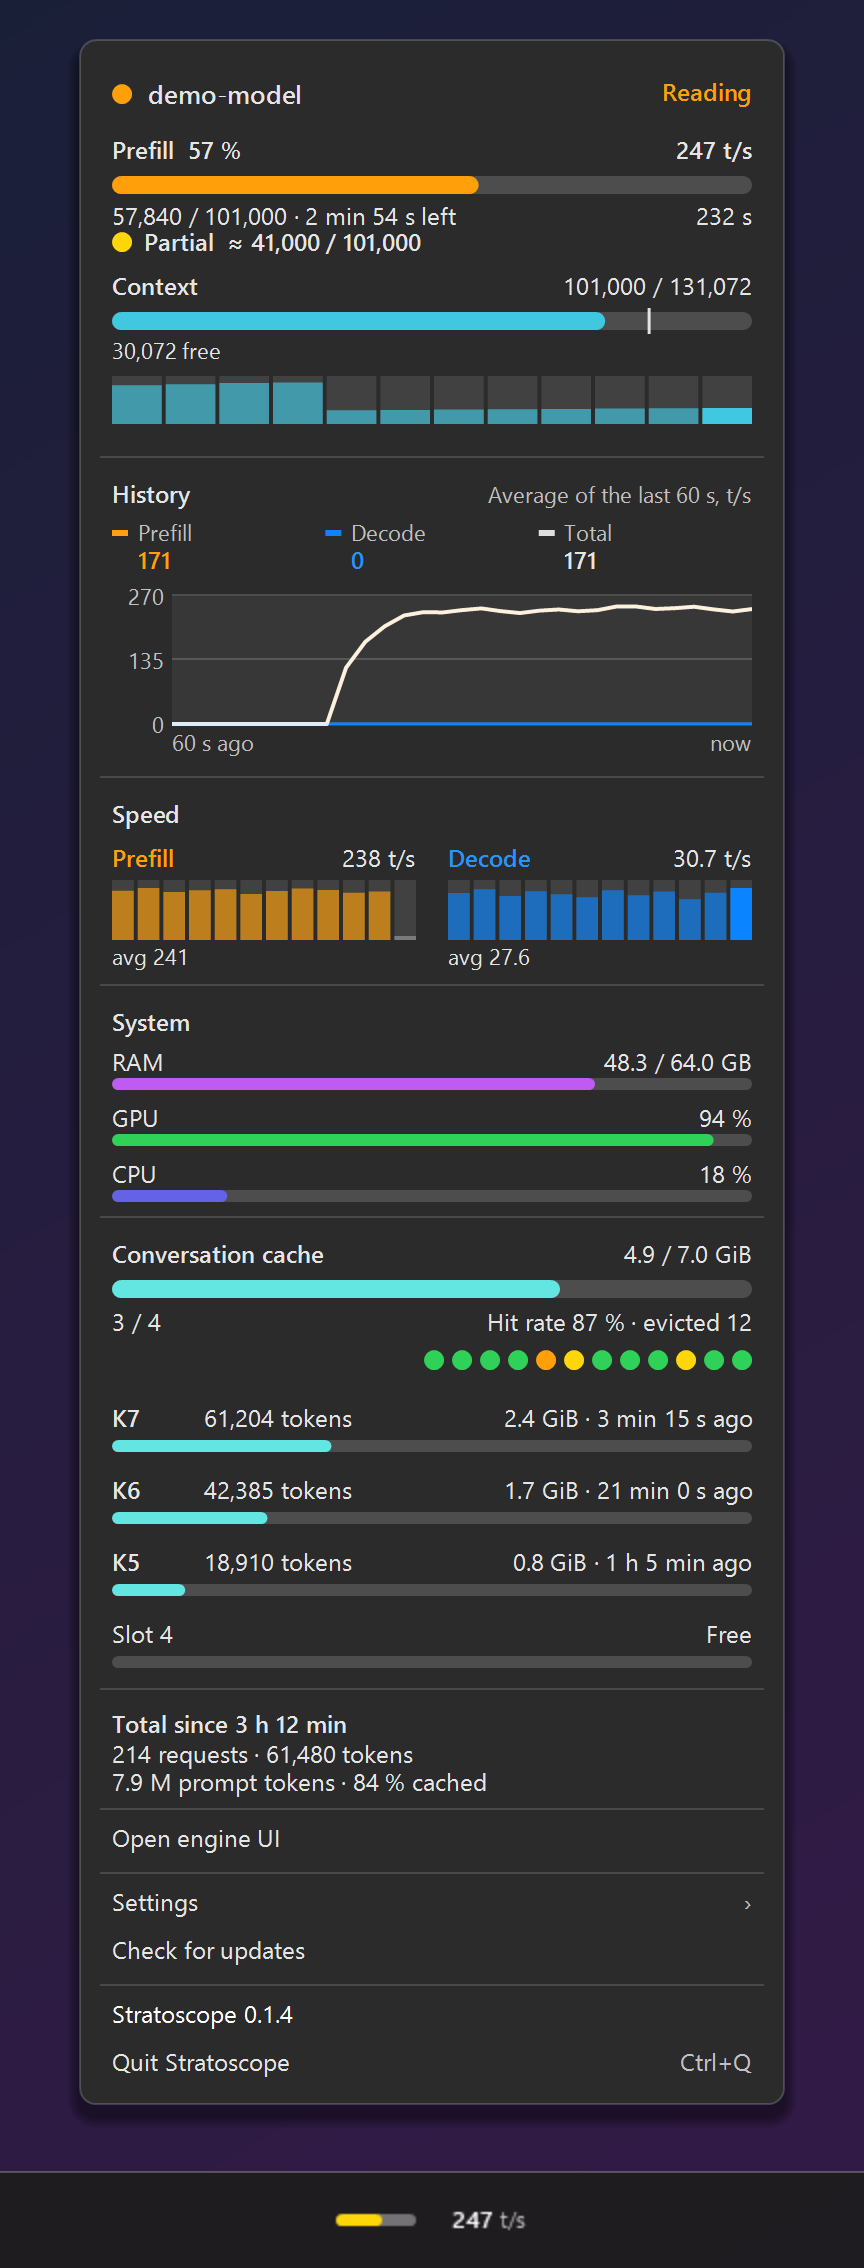
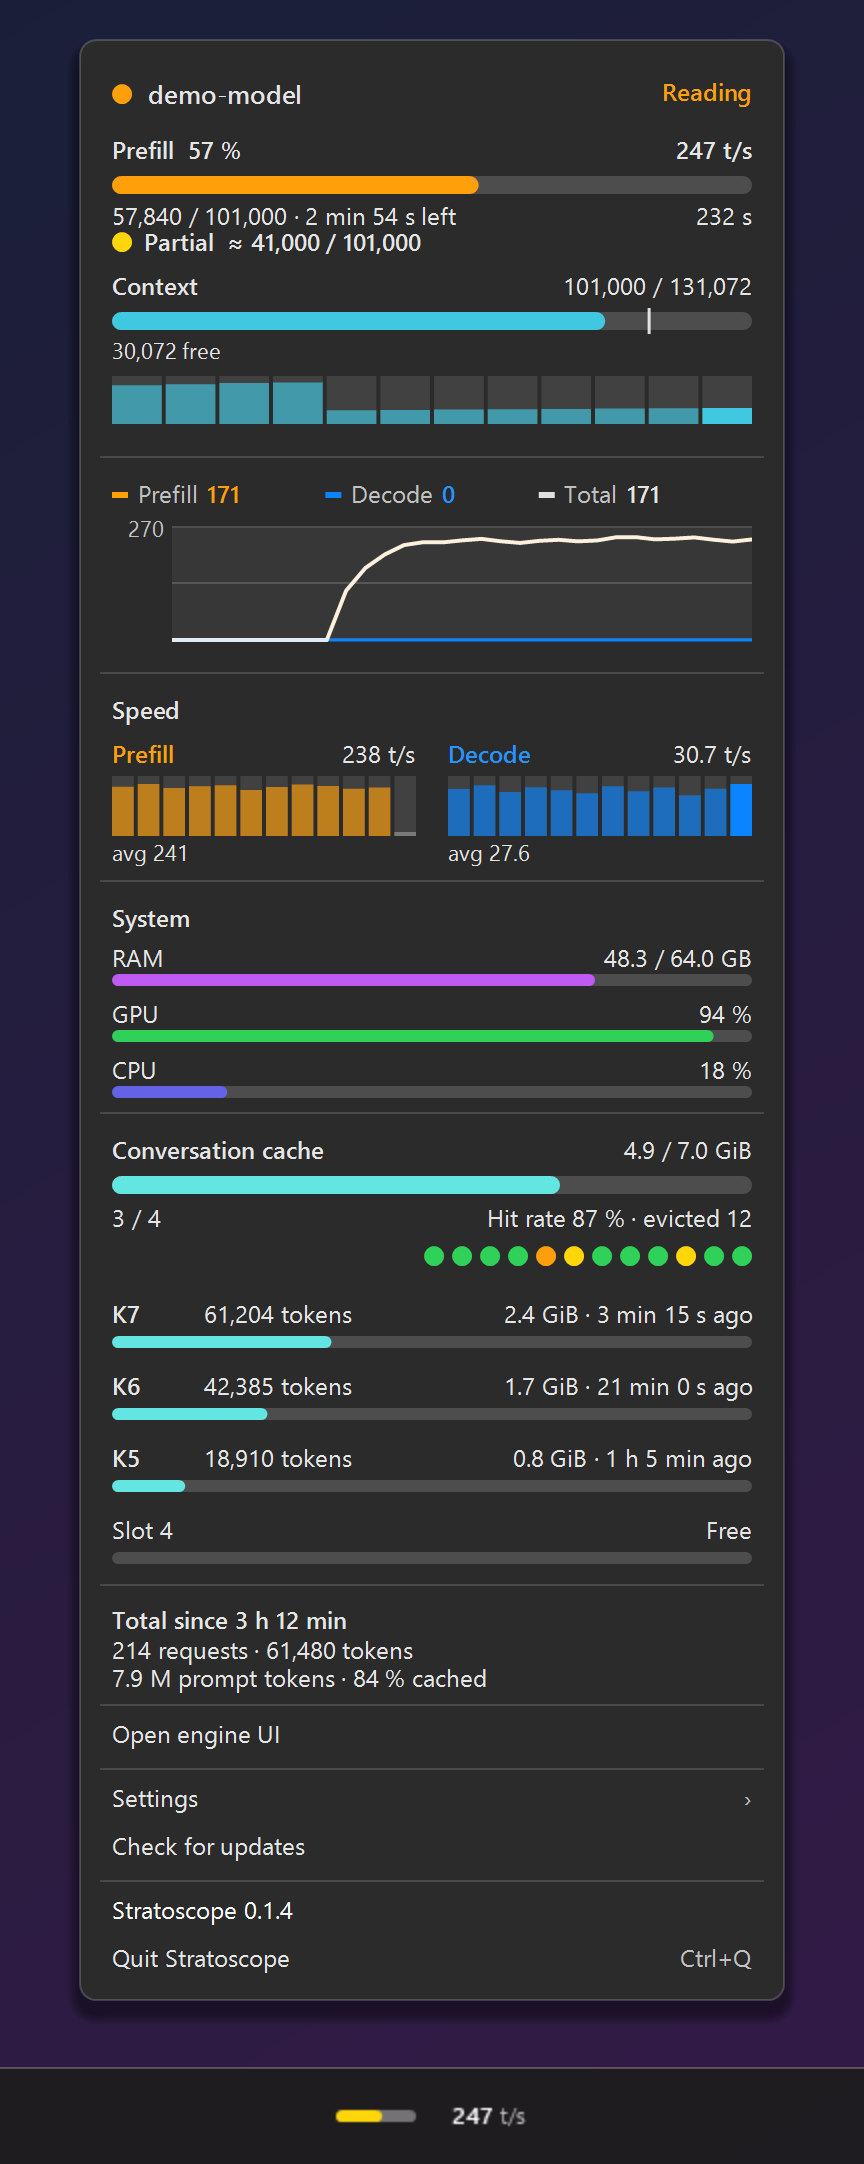
Panel history: one legend row (mark, name, 60 s average), no header or time labels, only the maximum on the axis; Swift mirrored (unbuilt) [skip ci] [skip cd]

Changed region(s): [[0.0938, 0.031, 0.9062, 0.9288], [0.5312, 0.9598, 0.5938, 0.9908], [0.4062, 0.9598, 0.4375, 0.9908]]

diff --git a/Sources/Stratoscope/Panels.swift b/Sources/Stratoscope/Panels.swift
@@ -19,7 +19,7 @@ final class Panels {
         var groups: [[Section]] = []
         groups.append([Section(id: "live", height: 198) { [unowned self] _ in self.paintLive() }])
         if !s.isLoading {
-            if history != nil { groups.append([Section(id: "history", height: 152) { [unowned self] _ in self.paintHistory() }]) }
+            if history != nil { groups.append([Section(id: "history", height: 100) { [unowned self] _ in self.paintHistory() }]) }
             groups.append([Section(id: "speed", height: 96) { [unowned self] _ in self.paintSpeed() }])
             if let sys = s.system {
                 // A fourth row for the video memory when the engine reports it (custom server); the other engines keep three rows.
@@ -126,33 +126,28 @@ final class Panels {
     /// The last 60 seconds in one graph, like a frame-rate graph: orange is the prefill speed (prompt tokens per second), blue the decode speed
     /// (generated tokens per second) and the label colour the total throughput (prompt plus generated tokens per second, the vLLM and
     /// OpenTelemetry GenAI meaning, see `SpeedHistory`). The total is a third curve in the same graph: it shares the axis, so it reads directly
-    /// against its two parts, and it costs no height. The legend gives the current value of each curve. The vertical axis is the adaptive scale
-    /// of the history (0 to its maximum); the horizontal one runs from 60 s ago to now. Not built or run on the Windows PC this was written on.
+    /// against its two parts, and it costs no height. The legend is one row: colour mark, name and the average over the 60 s (of the raw samples). The vertical axis is the adaptive scale
+    /// of the history (0 at the baseline, its maximum labelled at the top); the horizontal one is the last 60 s, unlabelled. Not built or run on the Windows PC this was written on.
     func paintHistory() {
         guard let h = history else { return }
         let inner = menuWidth - 2 * pad
-        text("History", x: pad, y: 8, size: 12, bold: true)
-        text("Average of the last 60 s, t/s", x: 0, y: 9, size: 10, color: .secondaryLabelColor, right: menuWidth - pad)
         let curves: [(HistoryCurve, String, NSColor)] = [(.prefill, "Prefill", .systemOrange), (.decode, "Decode", .systemBlue), (.total, "Total", .labelColor)]
         let column = inner / 3
         for (i, (curve, name, color)) in curves.enumerated() {
             let x = pad + CGFloat(i) * column
-            color.setFill(); NSRect(x: x, y: 33, width: 8, height: 3).fill()
-            text(name, x: x + 13, y: 28, size: 10, color: .secondaryLabelColor)
+            color.setFill(); NSRect(x: x, y: 14, width: 8, height: 3).fill()
+            let nameWidth = NSAttributedString(string: name, attributes: [.font: font(12, bold: false)]).size().width
+            text(name, x: x + 13, y: 8, size: 12, color: .secondaryLabelColor)
             let v = h.average(curve, now: Date().timeIntervalSince1970)     // the average of the raw samples of the window, not of the smoothed curve
-            text(v.isNaN ? "–" : Fmt.number(v), x: x + 13, y: 41, size: 12, bold: true, color: curve == .total ? .labelColor : color)
+            text(v.isNaN ? "–" : Fmt.number(v), x: x + 13 + nameWidth + 5, y: 8, size: 12, bold: true, color: curve == .total ? .labelColor : color)
         }
-        let gutter: CGFloat = 30, left = pad + gutter, right = menuWidth - pad, top: CGFloat = 66, plotH: CGFloat = 64
+        let gutter: CGFloat = 30, left = pad + gutter, right = menuWidth - pad, top: CGFloat = 32, plotH: CGFloat = 56
         let scale = h.graphScale
         NSColor.labelColor.withAlphaComponent(0.06).setFill()
         NSRect(x: left, y: top, width: right - left, height: plotH).fill()
         NSColor.labelColor.withAlphaComponent(0.16).setFill()
         for f in [0.0, 0.5, 1.0] { NSRect(x: left, y: (top + plotH - plotH * CGFloat(f)).rounded() - 1, width: right - left, height: 1).fill() }
-        text(Fmt.number(scale.max), x: 0, y: top - 6, size: 10, color: .secondaryLabelColor, right: left - 4)
-        text(Fmt.number(scale.max / 2), x: 0, y: top + plotH / 2 - 6, size: 10, color: .secondaryLabelColor, right: left - 4)
-        text(Fmt.number(scale.min), x: 0, y: top + plotH - 6, size: 10, color: .secondaryLabelColor, right: left - 4)
-        text("60 s ago", x: left, y: top + plotH + 3, size: 10, color: .secondaryLabelColor)
-        text("now", x: 0, y: top + plotH + 3, size: 10, color: .secondaryLabelColor, right: right)
+        text(Fmt.number(scale.max), x: 0, y: top - 6, size: 10, color: .secondaryLabelColor, right: left - 4)     // the top of the scale; 0 is the baseline
 
         NSGraphicsContext.saveGraphicsState()
         NSRect(x: left, y: top - 1, width: right - left, height: plotH + 2).clip()

diff --git a/Sources/Windows/App/PanelPainter.cs b/Sources/Windows/App/PanelPainter.cs
@@ -586,8 +586,8 @@ internal sealed class PanelPainter
     // MARK: History
 
     /// <summary>The height of the history block (a multiple of 4).</summary>
-    internal const float HistoryHeight = 152f;
-    private const float HistoryPlotHeight = 64f;
+    internal const float HistoryHeight = 100f;
+    private const float HistoryPlotHeight = 56f;
     private const float HistoryGutter = 30f;
     [ThreadStatic] private static double[]? historyAges, historyValues;
 
@@ -595,29 +595,27 @@ internal sealed class PanelPainter
     /// The last 60 seconds in one graph, like a frame-rate graph: orange is the prefill speed (prompt tokens per second), blue the decode speed
     /// (generated tokens per second) and the ink colour the total throughput (prompt plus generated tokens per second, the vLLM and
     /// OpenTelemetry GenAI meaning, see <see cref="SpeedHistory"/>). The total is a third curve in the same graph, not a separate sparkline: it shares the axis,
-    /// so it reads directly against its two parts, and it costs no height. The legend above the graph gives the current value of each curve.
-    /// The vertical axis is the adaptive scale of the history (0 to its maximum); the horizontal one runs from 60 s ago to now.
+    /// so it reads directly against its two parts, and it costs no height. The legend row above the graph gives, for each curve, the colour mark, the name and its average over the 60 s (of the raw samples).
+    /// The vertical axis is the adaptive scale of the history (0 to its maximum); the horizontal one is the last 60 s, newest on the right, and has no labels.
     /// </summary>
     private float HistoryBlock(SpeedHistory history, float y)
     {
         var inner = Width - 2 * Pad;
-        T("History", Pad, y + 8, Body, true);
-        T("Average of the last 60 s, t/s", 0, y + 9, Caption, false, pal.Dim, Width - Pad);
         var column = inner / 3;
         var curves = new[] { (HistoryCurve.Prefill, "Prefill", pal.Orange), (HistoryCurve.Decode, "Decode", pal.Blue), (HistoryCurve.Total, "Total", pal.Label) };
         for (int i = 0; i < curves.Length; i++)
         {
             var (curve, name, color) = curves[i];
             var x = Pad + i * column;
-            using (var brush = new SolidBrush(color)) g.FillRectangle(brush, x, y + 33, 8, 3);
-            T(name, x + 13, y + 28, Caption, false, pal.Dim);
-            // The average of the raw samples of the window, not of the smoothed curve. Only the average fits the column without more height.
+            // One row: the colour mark, the name, the number. The number is the average of the raw samples of the 60 s window (not of the smoothed curve).
+            using (var brush = new SolidBrush(color)) g.FillRectangle(brush, x, y + 14, 8, 3);
+            T(name, x + 13, y + 8, Body, false, pal.Dim);
             var average = history.Average(curve, SpeedHistory.Seconds(model.Now));
-            T(double.IsNaN(average) ? Fmt.Missing : Fmt.Number(average), x + 13, y + 41, Body, true, curve == HistoryCurve.Total ? null : color);
+            T(double.IsNaN(average) ? Fmt.Missing : Fmt.Number(average), x + 13 + TextWidth(name, F(Body, false)) + 5, y + 8, Body, true, curve == HistoryCurve.Total ? null : color);
         }
 
         var left = Pad + HistoryGutter; var right = Width - Pad;
-        var top = y + 66; var plotH = HistoryPlotHeight;
+        var top = y + 32; var plotH = HistoryPlotHeight;
         var scale = history.GraphScale;
         using (var brush = new SolidBrush(pal.Faint(0.06)))
             g.FillRectangle(brush, left, top, right - left, plotH);
@@ -627,12 +625,7 @@ internal sealed class PanelPainter
                 var gy = (float)Math.Round(top + plotH - plotH * f) - 0.5f;
                 g.DrawLine(pen, left, gy, right, gy);
             }
-        T(Fmt.Number(scale.Max), 0, top - 6, Caption, false, pal.Dim, left - 4);
-        T(Fmt.Number(scale.Max / 2), 0, top + plotH / 2 - 6, Caption, false, pal.Dim, left - 4);
-        T(Fmt.Number(scale.Min), 0, top + plotH - 6, Caption, false, pal.Dim, left - 4);
-        T("60 s ago", left, top + plotH + 3, Caption, false, pal.Dim);
-        T("now", 0, top + plotH + 3, Caption, false, pal.Dim, right);
-
+        T(Fmt.Number(scale.Max), 0, top - 6, Caption, false, pal.Dim, left - 4);     // the top of the scale; 0 is the baseline
         historyAges ??= new double[SpeedHistory.Capacity]; historyValues ??= new double[SpeedHistory.Capacity];
         var now = SpeedHistory.Seconds(model.Now);
         var saved = g.SmoothingMode;

diff --git a/docs/ARCHITECTURE.md b/docs/ARCHITECTURE.md
@@ -96,7 +96,7 @@ What every front end does the same way. The payloads in `Tests/Fixtures` with th
 - **Settings:** environment variable, then the settings file, then the default. A router without `url` is asked alone, never `127.0.0.1:8095`.
 - **Speed when several requests run together:** the headline decode speed (and the headline prefill speed while reading) is the engine's own total over all requests, for every engine. Strata: `live.tok_s` (the engine's total of the generating requests); when the engine has no total yet, the sum of the derived per-slot speeds (Windows only). Basalt: `live.tok_s`, which the engine sums over its slots. llama.cpp: `/metrics` `llamacpp:predicted_tokens_seconds` (prefill: `prompt_tokens_seconds`), the server-wide rate over all slots; it needs the server's `--metrics` flag. Custom 27B: `/ui/state` `tick.sample.decode_tps` and `prefill_tps`, the engine's counter deltas over all requests between samples; the sum of the per-request rates only when the sample has no rate. A request's own speed is shown on its own row. The per-request rows are never added up for the headline unless the engine has no total.
 - **Request bars and speed scale:** the readout shows one bar per running request (at most eight; source: the engine's batch slots, else the live request), each as wide as the old progress bar; with several the stack grows taller, centred where the single bar is, as the square root of the count (`H = 6 epx * sqrt(n)`, capped at 32 epx) while each bar gets thinner: the gap is a quarter of the bar (at least 1 device pixel), the bar is what is left (at least 2), leftover pixels make the first bars 1 px taller. `BarRows` in `ReadoutPainter.cs`, `RequestBars.rows` in `SpeedHistory.swift`. Reading: the prompt progress, in orange (the cache colour while it is the only request). Writing: the request's own slot speed against the adaptive scale `SpeedScale` (0 to a maximum), in blue; a speed the engine does not report leaves the track empty. The maximum rises when a value exceeds it, to that value plus 5 %, rounded up to a clean step (126 becomes 130). It steps back to the next clean value above the peak only after every value stayed below half of it for 25 s (`SpeedScale.FallHoldSeconds`), never below its start of 100 t/s. `SpeedScale.cs` and `SpeedScale.swift`, tested on both sides.
-- **History graph (panel only):** the last 60 s of speed (`SpeedHistory`, one sample per poll). Orange is the prefill speed (`Live.PrefillTokensPerSecond`, prompt tokens per second), blue the decode speed (`Live.DecodeTokensPerSecond`, generated tokens per second), black (the label colour) the total throughput, the standard throughput of vLLM and OpenTelemetry GenAI: tokens processed per second, prompt plus generated (`vllm:prompt_tokens_total` plus `vllm:generation_tokens_total` as a rate; `gen_ai.client.token.usage` input plus output). All three come from the engine's own speeds, and the total is unknown when either part is. Idle is 0, one reading request does not write, and parallel requests with an unreported speed leave a gap. Each curve is smoothed per sample with the one-pole filter `y = d*y + (1-d)*x`; setting `history_smoothing`: `off` (d 0), `normal` (0.5, default), `high` (0.9), `highest` (0.95); environment `STRATOSCOPE_HISTORY_SMOOTHING`. The total is a third curve in the same graph: it shares the axis, reads against its parts and costs no height. The legend gives the average of each curve over the 60 s window, of the raw samples (not the smoothed curve); the axis labels are 0, half and the adaptive maximum.
+- **History graph (panel only):** the last 60 s of speed (`SpeedHistory`, one sample per poll). Orange is the prefill speed (`Live.PrefillTokensPerSecond`, prompt tokens per second), blue the decode speed (`Live.DecodeTokensPerSecond`, generated tokens per second), black (the label colour) the total throughput, the standard throughput of vLLM and OpenTelemetry GenAI: tokens processed per second, prompt plus generated (`vllm:prompt_tokens_total` plus `vllm:generation_tokens_total` as a rate; `gen_ai.client.token.usage` input plus output). All three come from the engine's own speeds, and the total is unknown when either part is. Idle is 0, one reading request does not write, and parallel requests with an unreported speed leave a gap. Each curve is smoothed per sample with the one-pole filter `y = d*y + (1-d)*x`; setting `history_smoothing`: `off` (d 0), `normal` (0.5, default), `high` (0.9), `highest` (0.95); environment `STRATOSCOPE_HISTORY_SMOOTHING`. The total is a third curve in the same graph: it shares the axis, reads against its parts and costs no height. The legend is one row (colour mark, name, average over the 60 s window of the raw samples, not the smoothed curve); the only axis label is the adaptive maximum at the top (0 is the baseline, the time axis is unlabelled).
 
 ## Not built yet
 

diff --git a/docs/WINDOWS.md b/docs/WINDOWS.md
@@ -31,7 +31,7 @@ No administrator rights. It installs into `%LOCALAPPDATA%\Stratoscope`, starts w
 <img src="img/windows-readout-parallel.png" alt="The readout with 1, 2, 4 and 8 parallel requests, dark and light" width="720">
 
 - **Position**: centred in the free gap of the taskbar. It moves only when the taskbar geometry changes, then once.
-- **Panel**: the Mac menu, with tabs for several servers. Below the live block a graph shows the last 60 seconds: orange prefill speed, blue decode speed, black total throughput (prompt plus generated tokens per second), with the average of each over the 60 s (of the raw samples, not the smoothed curve) and an axis from 0 to the adaptive maximum. Two or more parallel requests show a sum bar with one smaller bar per request.
+- **Panel**: the Mac menu, with tabs for several servers. Below the live block a graph shows the last 60 seconds: orange prefill speed, blue decode speed, black total throughput (prompt plus generated tokens per second), with one legend row (colour mark, name, average over the 60 s of the raw samples, not the smoothed curve) and the adaptive maximum labelled at the top. Two or more parallel requests show a sum bar with one smaller bar per request.
 - **Tooltips**: only data the element does not show. Nothing to add, no tooltip.
 - **Keys**: Esc closes, Left and Right switch tabs, Ctrl+Q quits.
 <img src="img/windows-readout-states.png" alt="Every state of the readout, dark and light" width="720">
